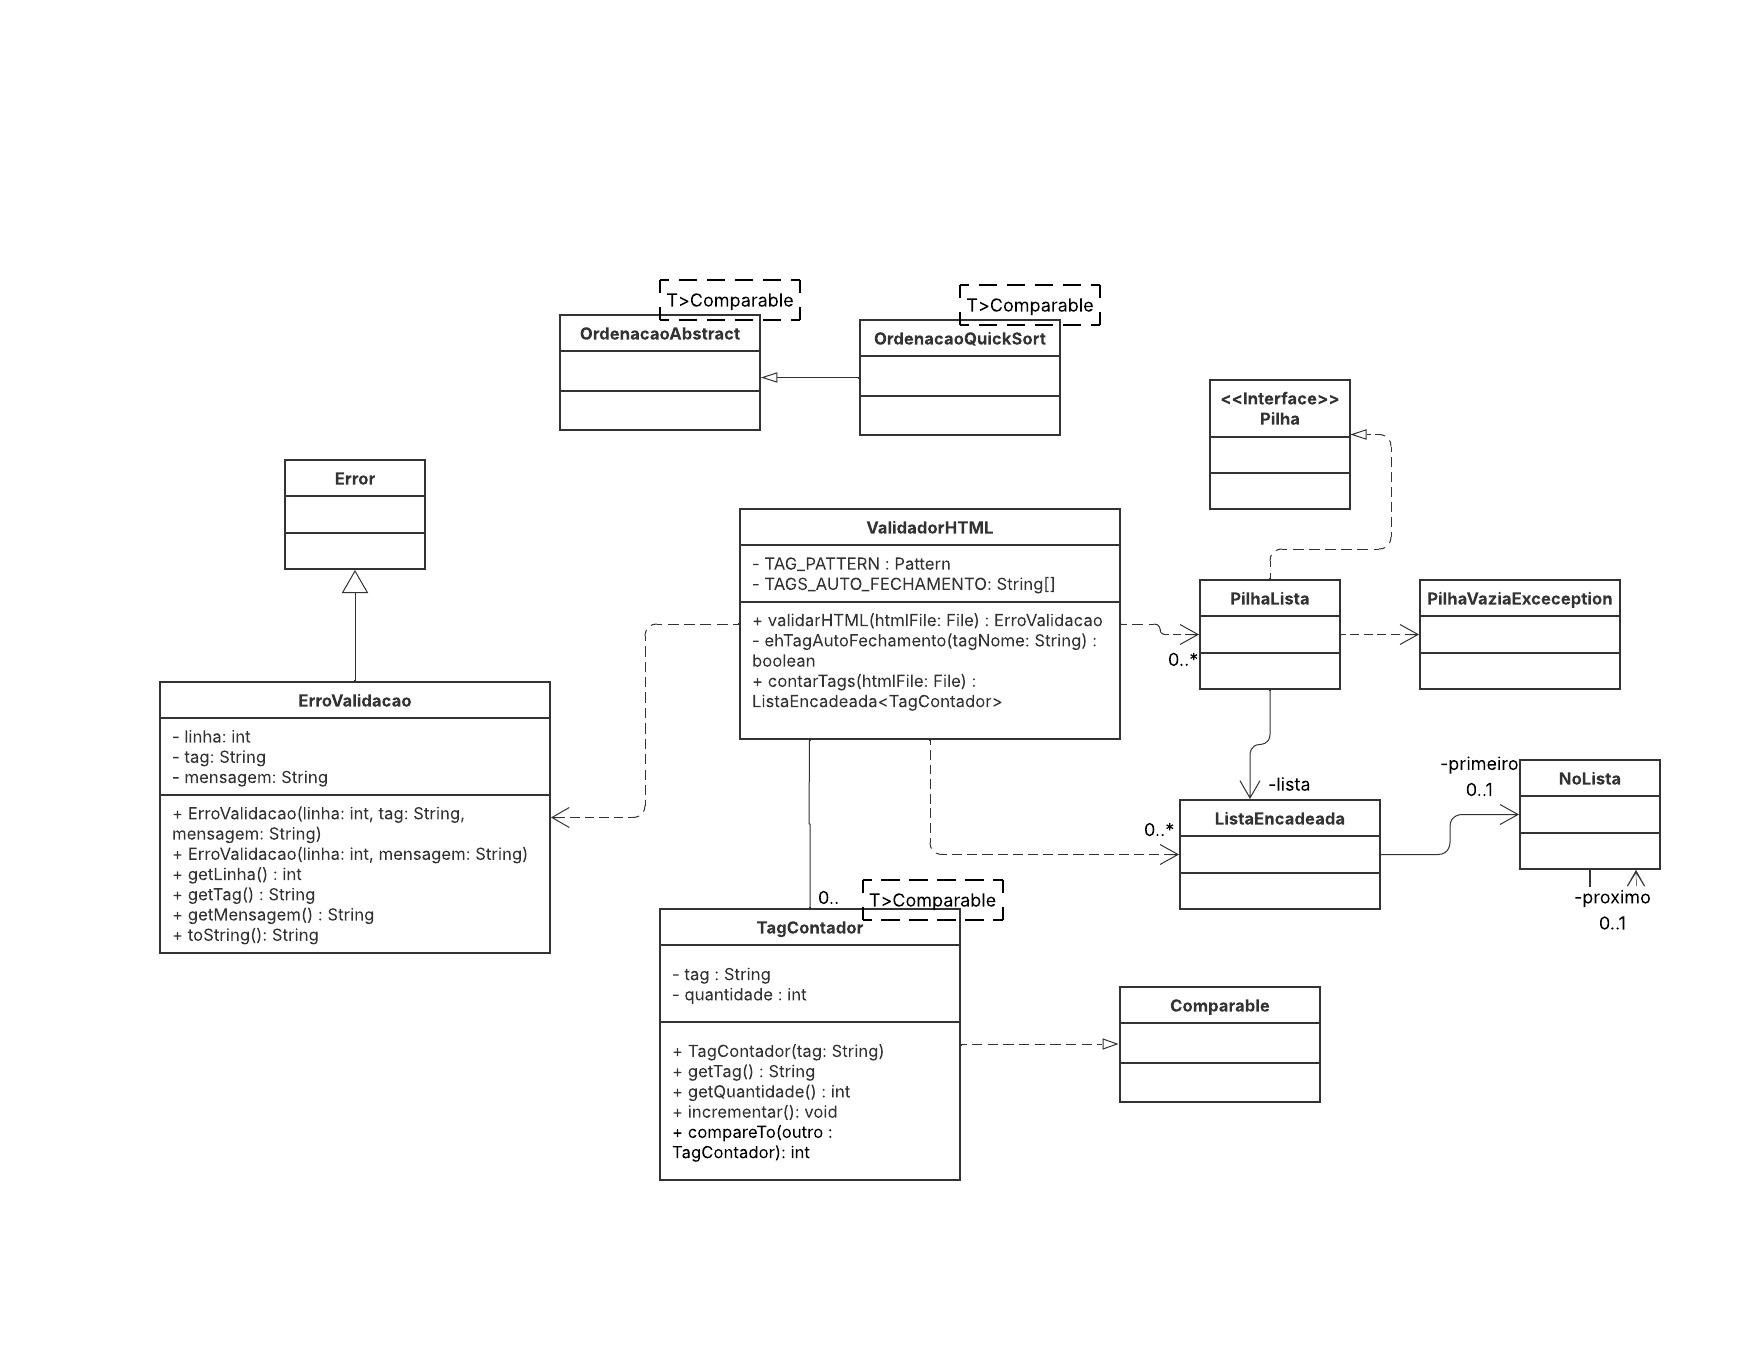
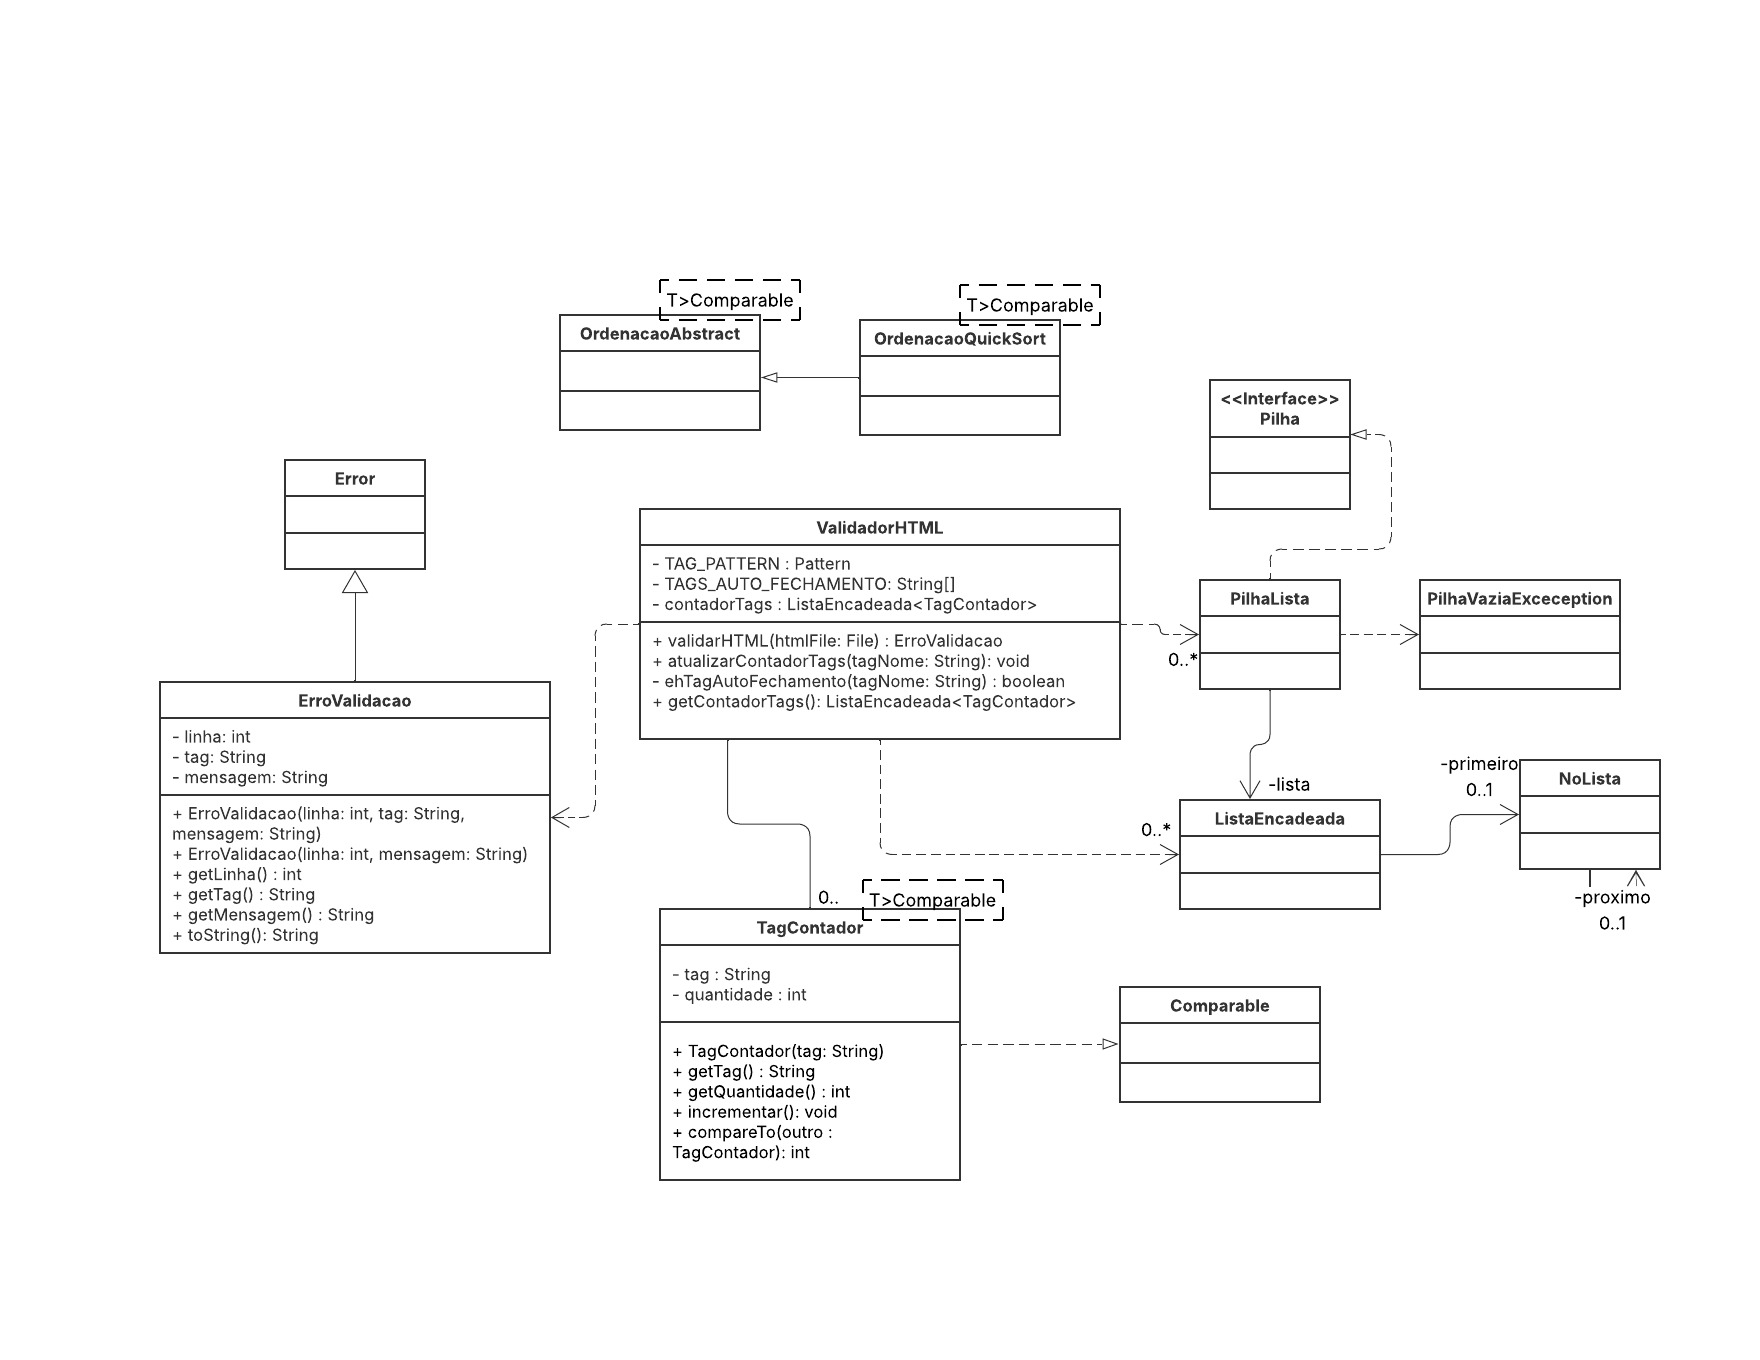
alterado performance de contagem e atualizado a UML

Changed region(s): [[0.375, 0.3706, 0.625, 0.525], [0.375, 0.7721, 0.4688, 0.8338]]

diff --git a/src/main/java/trabalhoFinal/ValidadorHTML.java b/src/main/java/trabalhoFinal/ValidadorHTML.java
@@ -16,12 +16,14 @@ import java.util.regex.Pattern;
  * @author Premiersoft
  */
 public class ValidadorHTML {
-    private Pattern TAG_PATTERN = Pattern.compile("<\\s*(/?)\\s*([a-zA-Z][a-zA-Z0-9]*)\\b([^>]*)>?");
+    private Pattern TAG_PATTERN = Pattern.compile("<\\s*(/?)\\s*([a-zA-Z][a-zA-Z0-9]*|!doctype)\\b([^>]*)>?", Pattern.CASE_INSENSITIVE);
     private String[] TAGS_AUTO_FECHAMENTO = {"img", "br", "hr", "input", "meta", "link", "base",
             "col", "command", "embed", "param", "source", "!doctype"};
+    private ListaEncadeada<TagContador> contadorTags = new ListaEncadeada<>();
 
     public ErroValidacao validarHTML(File htmlFile) throws IOException {
         PilhaLista<String> pilha = new PilhaLista<>();
+        contadorTags = new ListaEncadeada<>();
 
         try (BufferedReader reader = new BufferedReader(new FileReader(htmlFile))) {
             String linha;
@@ -33,22 +35,28 @@ public class ValidadorHTML {
 
                 while (matcher.find()) {
                     tagEncontradas++;
-
                     String tagOriginal = matcher.group(2);
                     String tagNome = tagOriginal.toLowerCase();
-
-                    boolean ehFechamento = "/".equals(matcher.group(1));
                     String conteudoTag = matcher.group(0);
+
+                    if (!"/".equals(matcher.group(1))) {
+                        atualizarContadorTags(tagNome);
+                    }
 
                     if (!conteudoTag.endsWith(">")) {
                         return new ErroValidacao(numLinha, tagNome,
-                                "Tag malformada, falta '>' no final");
+                                "Tag malformada - falta '>' no final");
                     }
 
-                    boolean ehAutoFechamentoSintatico = conteudoTag.endsWith("/>");
+                    boolean ehFechamento = "/".equals(matcher.group(1));
+                    boolean ehAutoFechamentoSintatico = matcher.group(0).endsWith("/>");
 
                     if (ehTagAutoFechamento(tagNome) || ehAutoFechamentoSintatico) {
                         continue;
+                    }
+
+                    if (linha.contains("<") && !TAG_PATTERN.matcher(linha).find()) {
+                        return new ErroValidacao(numLinha, "", "Tag malformada detectada ou fechamento incorreto.");
                     }
 
                     if (ehFechamento) {
@@ -85,6 +93,28 @@ public class ValidadorHTML {
         return null;
     }
 
+    private void atualizarContadorTags(String tagNome) {
+        boolean encontrada = false;
+        NoLista<TagContador> p = contadorTags.getPrimeiro();
+
+        while (p != null) {
+            if (p.getInfo().getTag().equals(tagNome)) {
+                p.getInfo().incrementar();
+                encontrada = true;
+                break;
+            }
+            p = p.getProximo();
+        }
+
+        if (!encontrada) {
+            contadorTags.inserir(new TagContador(tagNome));
+        }
+    }
+
+    public ListaEncadeada<TagContador> getContadorTags() {
+        return contadorTags;
+    }
+
     private boolean ehTagAutoFechamento(String tagNome) {
         for (String tag : TAGS_AUTO_FECHAMENTO) {
             if (tag.equals(tagNome)) {
@@ -94,40 +124,4 @@ public class ValidadorHTML {
         return false;
     }
 
-    public ListaEncadeada<TagContador> contarTags(File htmlFile) throws IOException {
-        ListaEncadeada<TagContador> listaContagem = new ListaEncadeada<>();
-
-        try (BufferedReader reader = new BufferedReader(new FileReader(htmlFile))) {
-            String linha;
-
-            while ((linha = reader.readLine()) != null) {
-                Matcher matcher = TAG_PATTERN.matcher(linha);
-
-                while (matcher.find()) {
-                    String tagNome = matcher.group(2).toLowerCase();
-
-                    if (!"/".equals(matcher.group(1))) {
-                        boolean encontrada = false;
-                        NoLista<TagContador> p = listaContagem.getPrimeiro();
-
-                        while (p != null) {
-                            if (p.getInfo().getTag().equals(tagNome)) {
-                                p.getInfo().incrementar();
-                                encontrada = true;
-                            }
-                            p = p.getProximo();
-                        }
-
-                        if (!encontrada) {
-                            listaContagem.inserir(new TagContador(tagNome));
-                        }
-                    }
-                }
-            }
-        } catch (IOException erro) {
-            System.out.println("Erro ao ler arquivo para contagem.");
-        }
-
-        return listaContagem;
-    }
 }

diff --git a/src/main/java/trabalhoFinal/GUI.java b/src/main/java/trabalhoFinal/GUI.java
@@ -34,23 +34,22 @@ public class GUI extends javax.swing.JFrame {
 
     private void atualizarTabelaTags(File htmlFile) {
         try {
+
             ValidadorHTML validador = new ValidadorHTML();
-            ListaEncadeada<TagContador> lista = validador.contarTags(htmlFile);
+            ErroValidacao erro = validador.validarHTML(htmlFile);
 
-            int tamanho = lista.obterComprimento();
-            TagContador[] array = new TagContador[tamanho];
+            ListaEncadeada<TagContador> lista = validador.getContadorTags();
 
-            NoLista<TagContador> atual = lista.getPrimeiro();
-            int i = 0;
+            TagContador[] arrayTags = new TagContador[lista.obterComprimento()];
+            NoLista<TagContador> noAtual = lista.getPrimeiro();
 
-            while (atual != null) {
-                array[i] = atual.getInfo();  
-                atual = atual.getProximo();
-                i++;
+            for (int i = 0; noAtual != null; i++) {
+                arrayTags[i] = noAtual.getInfo();
+                noAtual = noAtual.getProximo();
             }
 
             OrdenacaoQuickSort<TagContador> quickSort = new OrdenacaoQuickSort<>();
-            quickSort.setInfo(array);
+            quickSort.setInfo(arrayTags);
             quickSort.ordernar();
 
             DefaultTableModel modelo = (DefaultTableModel) tabelaTags.getModel();
@@ -61,7 +60,7 @@ public class GUI extends javax.swing.JFrame {
 
         } catch (Exception e) {
             JOptionPane.showMessageDialog(this,
-                    "Erro ao contar tags: " + e.getMessage(),
+                    "Erro ao processar tags: " + e.getMessage(),
                     "Erro",
                     JOptionPane.ERROR_MESSAGE);
         }
@@ -198,7 +197,7 @@ public class GUI extends javax.swing.JFrame {
                 printRetorno.setText("O arquivo esta bem formatado.");
             }
             textArea.setText(selectedFile.getAbsolutePath());
-           ListaEncadeada<TagContador> tags = validador.contarTags(selectedFile);
+
             atualizarTabelaTags(selectedFile);
 
         } catch (Exception ex) {
